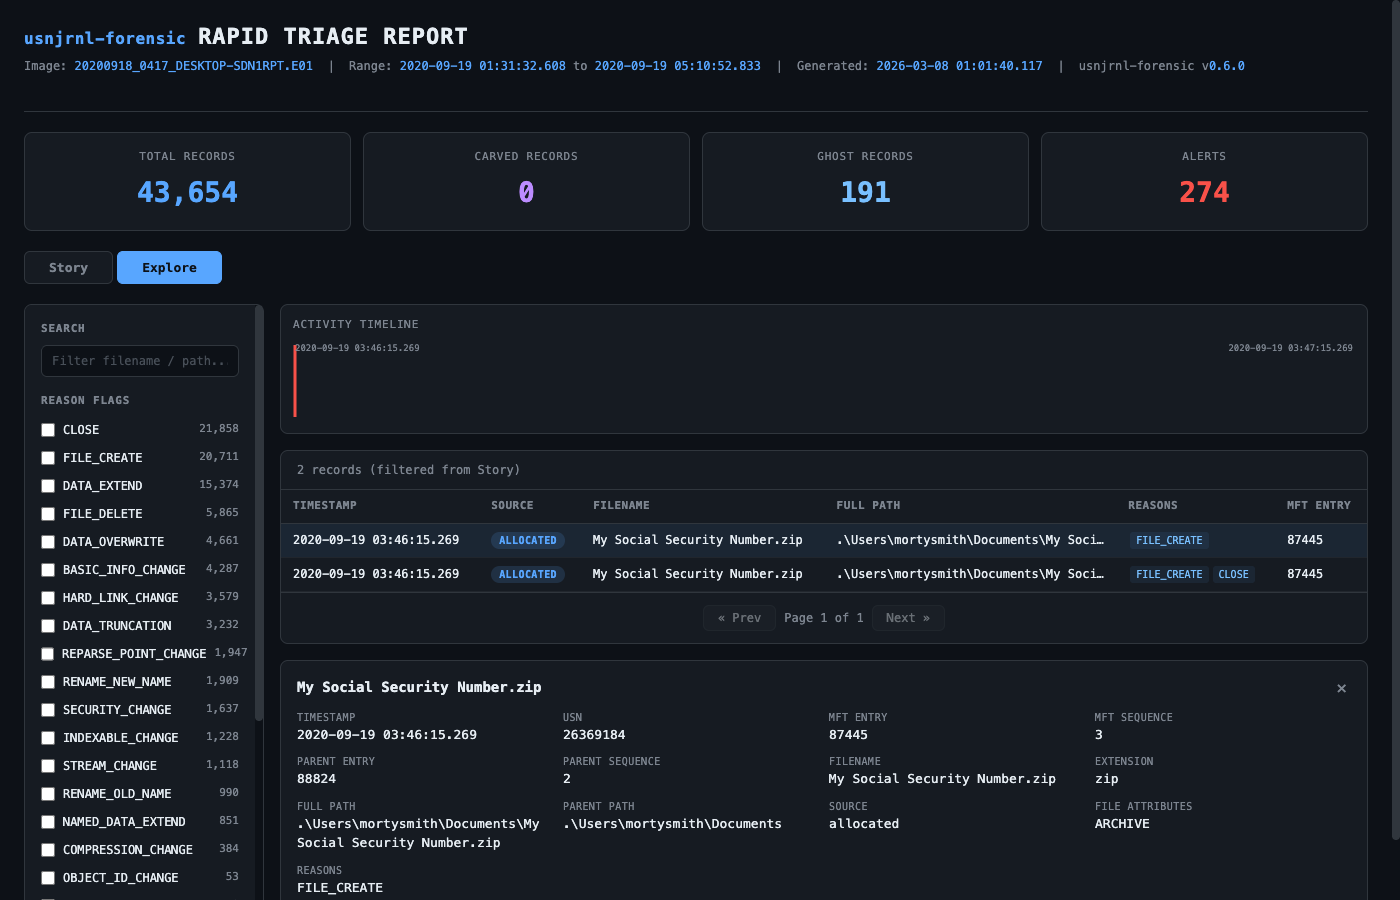
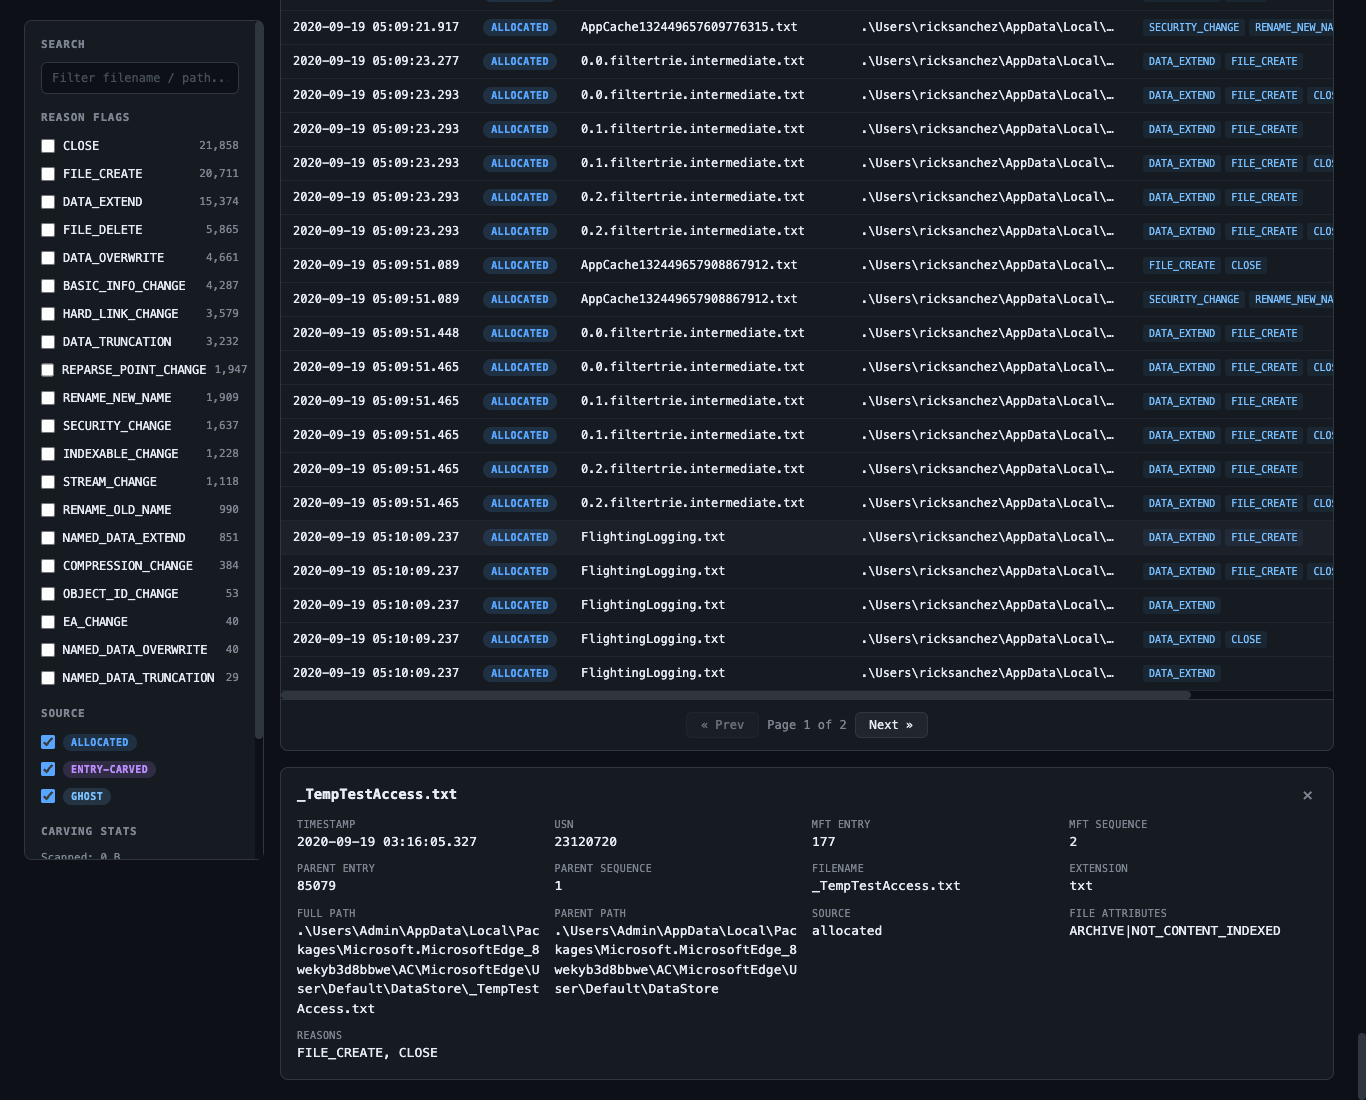
docs: GitHub Pages for live report, retake screenshots
Enable GitHub Pages deployment workflow so the triage report renders
as interactive HTML. Update README links to use Pages URL. Retake
screenshots: Story tab shows "Was sensitive data accessed?" expanded,
Explore tab shows filtered records with detail panel open.

Changed region(s): [[0.0, 0.0, 1.0, 1.0], [0.1537, 0.8711, 0.1845, 0.9022]]

diff --git a/README.md b/README.md
@@ -17,15 +17,15 @@ usnjrnl-forensic --image DESKTOP-SDN1RPT.E01 --carve-unallocated --report triage
 
 35 seconds later:
 
-[![Triage Report Story Tab](docs/demo/szechuan-sauce-triage-story.png)](docs/demo/szechuan-sauce-triage.html)
+[![Triage Report Story Tab](docs/demo/szechuan-sauce-triage-story.png)](https://securityronin.github.io/usnjrnl-forensic/docs/demo/szechuan-sauce-triage.html)
 
 **The Story tab answers 12 IR questions in seconds.** Was the system compromised? What malware is present? Were credentials stolen? Did the attacker destroy evidence? Click any question to see the matching records.
 
-[![Triage Report Explore Tab](docs/demo/szechuan-sauce-triage-explore.png)](docs/demo/szechuan-sauce-triage.html)
+[![Triage Report Explore Tab](docs/demo/szechuan-sauce-triage-explore.png)](https://securityronin.github.io/usnjrnl-forensic/docs/demo/szechuan-sauce-triage.html)
 
 **The Explore tab is a full timeline workbench.** 55,809 records with search, filters by reason flag, source pill filtering (allocated/entry-carved/ghost), activity sparkline, and paginated results. Every record shows its origin: purple "ENTRY-CARVED" pills for journal entries recovered from unallocated space, red "GHOST" pills for records found in `$LogFile` but wiped from `$UsnJrnl`.
 
-> [View the live report](docs/demo/szechuan-sauce-triage.html) (download the HTML and open it in your browser). Generated from the [Szechuan Sauce DFIR CTF](https://dfirmadness.com/the-stolen-szechuan-sauce/) desktop image ([download the E01](https://dfirmadness.com/the-stolen-szechuan-sauce/), 6.4 GB).
+> [View the live report](https://securityronin.github.io/usnjrnl-forensic/docs/demo/szechuan-sauce-triage.html). Generated from the [Szechuan Sauce DFIR CTF](https://dfirmadness.com/the-stolen-szechuan-sauce/) desktop image ([download the E01](https://dfirmadness.com/the-stolen-szechuan-sauce/), 6.4 GB).
 
 ### What "recovered" means
 
